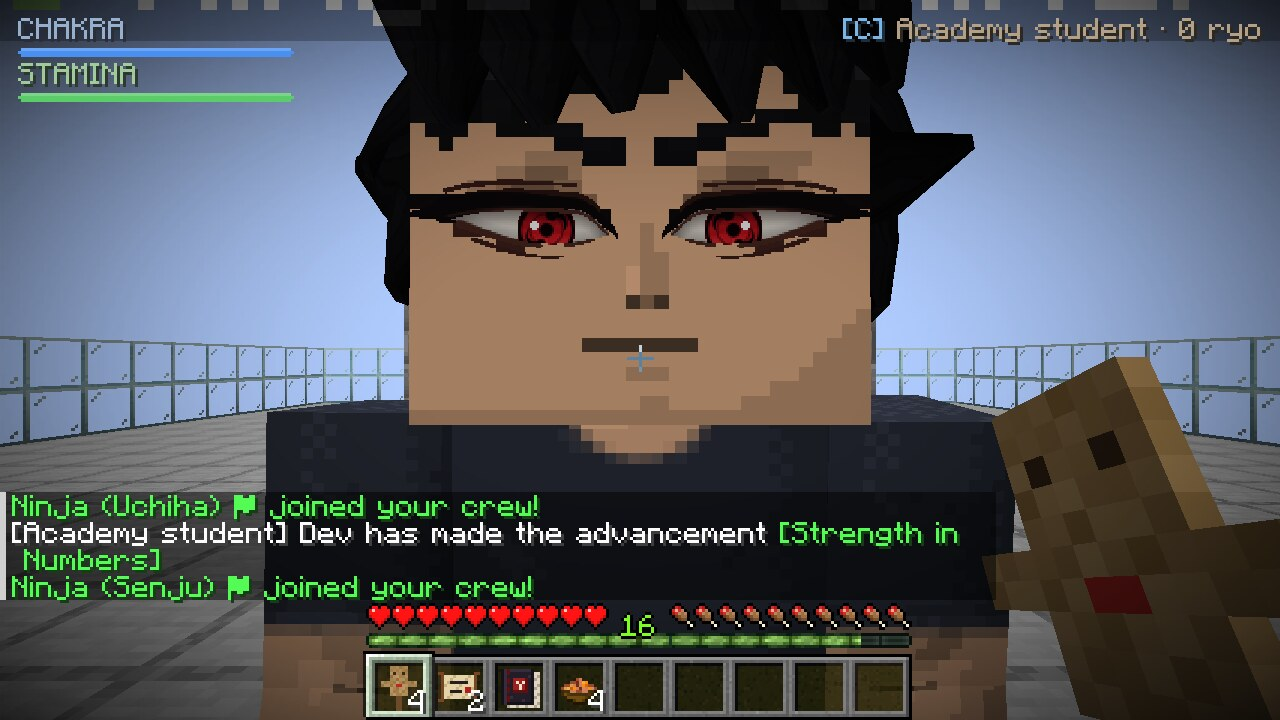
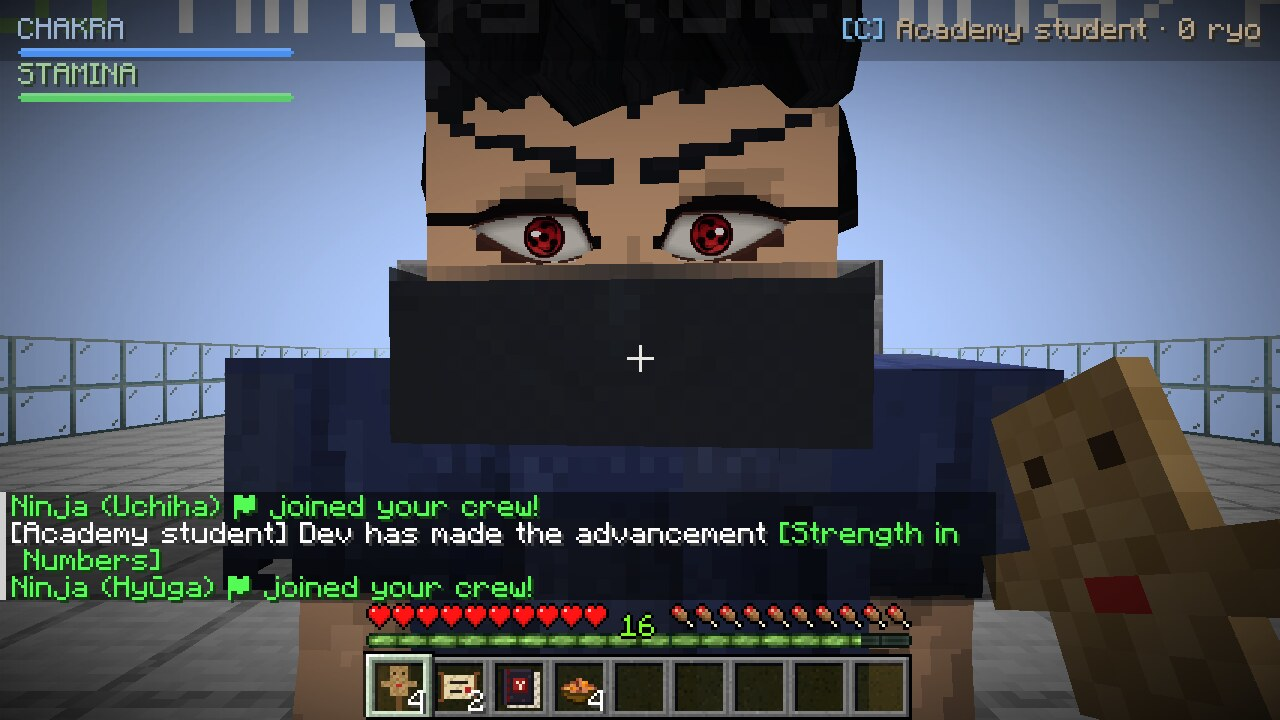
Eyes, fourth pass: shorter, no crease or lid shadow, the lash line stops at the outer point (owner's answer on the progress map)
Claude-Session: https://claude.ai/code/session_016aa7f6YRnJtzoKtSxnwSQ1

diff --git a/tools/skingen/anatomy.py b/tools/skingen/anatomy.py
@@ -46,7 +46,10 @@ MOUTH_Y = 6.6
 # The iris centre sits on an HD pixel's centre (shift, idy multiples of 1/8 at SCALE 4), so the
 # pupil is one pixel wide and the highlight one pixel.
 EYE_SHAPES = {
-    # Owner, 2026-11-12 (third pass, with eye references): "not round", "the end of the eyes" must match the
+    # Owner, 2026-11-12 (fourth pass, from the progress map): "not so stretched", and no lid crease or black
+    # line running past the eye; the rest of the third pass stays. So: shorter eyes, no sweep, no hook, no
+    # crease or lid shadow (gen_eye_decals.py).
+    # Third pass, with eye references: "not round", "the end of the eyes" must match the
     # references, "aggressive and raw". The eye is a long narrow leaf: the upper lid rises fast at the inner
     # corner, then runs almost flat (slanting down towards the nose, a glare) and tapers into a sharp outer
     # point; the lower lid is a shallow curve meeting it there. The upper lash line carries on past the
@@ -55,20 +58,20 @@ EYE_SHAPES = {
     # client/EyeDecalLayer (tools/skingen/gen_eye_decals.py) from these same shapes.
     #   flat   how flat the upper lid stays after its peak (higher = flatter, more aggressive)
     # steady (the default): focused, the iris cut by the upper lid
-    "round":  dict(ein=1.22, eout=1.66, inner=0.26, outer=-0.16, up=0.52, peak=0.16, flat=0.7, down=0.3,
-                   iris=0.5, shift=0.125, idy=0.0, lash=0.36, wing=0.75, hood=0.3, crease=0.34),
+    "round":  dict(ein=1.1, eout=1.38, inner=0.26, outer=-0.16, up=0.52, peak=0.16, flat=0.7, down=0.3,
+                   iris=0.5, shift=0.125, idy=0.0, lash=0.30, wing=0.75, hood=0.3, crease=0.34),
     # sharp (aggressive): narrower, the lid flatter and lower, a small iris
-    "sharp":  dict(ein=1.22, eout=1.7, inner=0.32, outer=-0.24, up=0.44, peak=0.14, flat=0.8, down=0.26,
-                   iris=0.42, shift=0.125, idy=0.0, lash=0.38, wing=0.85, hood=0.32, crease=0.32),
+    "sharp":  dict(ein=1.1, eout=1.42, inner=0.32, outer=-0.24, up=0.44, peak=0.14, flat=0.8, down=0.26,
+                   iris=0.42, shift=0.125, idy=0.0, lash=0.31, wing=0.85, hood=0.32, crease=0.32),
     # fierce: opened in a glare, white around a small iris, still pointed
-    "wide":   dict(ein=1.22, eout=1.66, inner=0.26, outer=-0.2, up=0.62, peak=0.18, flat=0.6, down=0.38,
-                   iris=0.4, shift=0.125, idy=0.0, lash=0.34, wing=0.7, hood=0.28, crease=0.38),
+    "wide":   dict(ein=1.1, eout=1.38, inner=0.26, outer=-0.2, up=0.62, peak=0.18, flat=0.6, down=0.38,
+                   iris=0.4, shift=0.125, idy=0.0, lash=0.28, wing=0.7, hood=0.28, crease=0.38),
     # narrow (sleepy, cold): the heavy lid low over the iris, a line under the eye
-    "narrow": dict(ein=1.22, eout=1.66, inner=0.2, outer=-0.12, up=0.36, peak=0.2, flat=0.75, down=0.28,
-                   iris=0.5, shift=0.125, idy=0.125, lash=0.4, wing=0.7, hood=0.36, crease=0.3, bags=1),
+    "narrow": dict(ein=1.1, eout=1.38, inner=0.2, outer=-0.12, up=0.36, peak=0.2, flat=0.75, down=0.28,
+                   iris=0.5, shift=0.125, idy=0.125, lash=0.33, wing=0.7, hood=0.36, crease=0.3, bags=1),
     # pale (the Hyuga's white eyes): steady, a pale iris without a pupil
-    "pale":   dict(ein=1.22, eout=1.66, inner=0.26, outer=-0.16, up=0.52, peak=0.16, flat=0.7, down=0.3,
-                   iris=0.56, shift=0.125, idy=0.0, lash=0.34, wing=0.7, hood=0.28, crease=0.34),
+    "pale":   dict(ein=1.1, eout=1.38, inner=0.26, outer=-0.16, up=0.52, peak=0.16, flat=0.7, down=0.3,
+                   iris=0.56, shift=0.125, idy=0.0, lash=0.28, wing=0.7, hood=0.28, crease=0.34),
 }
 
 

diff --git a/tools/skingen/gen_eye_decals.py b/tools/skingen/gen_eye_decals.py
@@ -183,34 +183,12 @@ def cell_top(shape):
     a = np.zeros(X.shape, np.float32)
     inside, top, bottom, u = opening(X, Y, cx, s)
     lash = s["lash"]
-    # a light shadow on the lid, between the lash line and the crease (not a heavy band)
-    span = (u > 0.05) & (u < 1.0)
-    gap = (top - lash * 0.25) - Y
-    shadow = np.where(span & (gap > 0) & (gap < s["hood"]), 0.22 * (1 - gap / s["hood"]), 0)
-    rgb, a = over(rgb, a, shadow, HOOD)
-    # the crease: a separate thin line following the lid above it, fading in from the inner side
-    crease = [(x, y - s["crease"] - lash * 0.3) for x, y in lid_line(cx, s, "top", u0=0.2, u1=0.98)]
-    rgb, a = over(rgb, a, seg_cov(X, Y, crease, 0.02, 0.07) * 0.75, CREASE)
     # the lash line: thin at the inner corner, thickest past the peak, riding just over the lid
-    up = lid_line(cx, s, "top", u0=0.02, u1=1.0)
+    up = lid_line(cx, s, "top", u0=0.02, u1=0.97)
     centre = [(x, y - lash * 0.25) for x, y in up]
-    rgb, a = over(rgb, a, seg_cov(X, Y, centre, lash * 0.25, lash), LASH)
-    # the sweep: the line carries on past the outer point in the lid's direction as a long thin stroke,
-    # bending a little upwards at its end (the "end of the eye" in the owner's references)
-    (x1, y1), (x2, y2) = centre[-8], centre[-1]
-    dx, dy = x2 - x1, y2 - y1
-    n = max(np.hypot(dx, dy), 1e-6)
-    dx, dy = dx / n, dy / n
-    wing = s["wing"]
-    pts = []
-    for k in range(9):
-        t = k / 8
-        pts.append((x2 + dx * wing * t, y2 + dy * wing * t - 0.1 * wing * t * t))
-    rgb, a = over(rgb, a, seg_cov(X, Y, [(x2 - dx * 0.12, y2 - dy * 0.12)] + pts, lash * 0.9, 0.015), LASH)
-    # the inner corner: the lash line hooks down a little past the corner, towards the nose
-    xi, yi = centre[0]
-    hook = [(xi, yi), (xi + 0.12, yi + 0.1), (xi + 0.2, yi + 0.24)]
-    rgb, a = over(rgb, a, seg_cov(X, Y, hook, lash * 0.3, 0.02), LASH)
+    rgb, a = over(rgb, a, seg_cov(X, Y, centre[:-10], lash * 0.25, lash), LASH)
+    # the last stretch tapers into the outer point, ending on the eye (nothing runs past it)
+    rgb, a = over(rgb, a, seg_cov(X, Y, centre[-11:], lash, lash * 0.3), LASH)
     # a thin warm rim under the lash line where it meets the white
     rim = np.clip(aa(Y - (top + 0.02)) - aa(Y - (top + 0.07)), 0, 1) * inside
     rgb, a = over(rgb, a, rim * 0.5, LID)

diff --git a/docs/ART_STYLE.md b/docs/ART_STYLE.md
@@ -20,10 +20,11 @@ trace or sample them).
   - **Shape:** a long, narrow leaf. The upper lid rises fast at the inner corner, then runs **almost flat**,
     slanting down towards the nose like a glare, and tapers into a **sharp outer point**. The lower lid is a
     shallow curve that meets it there. Both corners are points.
-  - **The ends:** the heavy upper lash line **carries on past the outer point as a long thin stroke** that bends
-    slightly up at its end, and **hooks down at the inner corner**. No separate lashes.
-  - **Lines:** a separate thin **crease line** above the lid, a light shadow between them, and a thin lower lid
-    line on the middle-to-outer part only (open at the outer corner).
+  - **Size:** compact, not stretched (owner, 2026-11-12, fourth pass): about 2.5 model pixels wide.
+  - **The ends:** the heavy upper lash line **tapers into the outer point and stops there**: nothing black runs
+    past the eye, and there is no hook. No separate lashes.
+  - **Lines:** **no crease line and no lid shadow** above the eye (owner: "the eyelid… I don't like"); a thin lower
+    lid line on the middle-to-outer part only (open at the outer corner).
   - **Iris:** medium to small, its top cut by the upper lid, with a dark rim, fibres, a small pupil and **one
     small highlight**.
   - **Shapes in the creator:** Steady (default), Sharp (aggressive: flatter, narrower, smaller iris), Fierce (a
